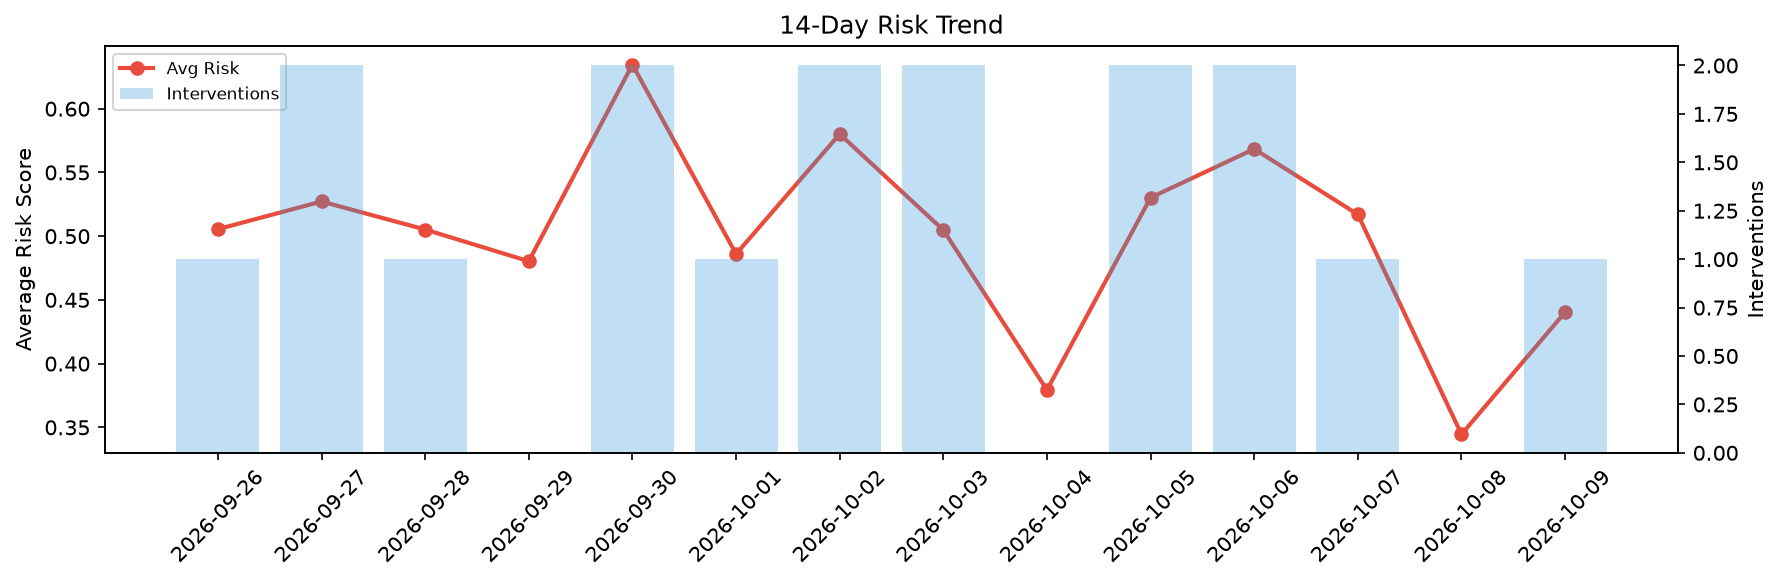
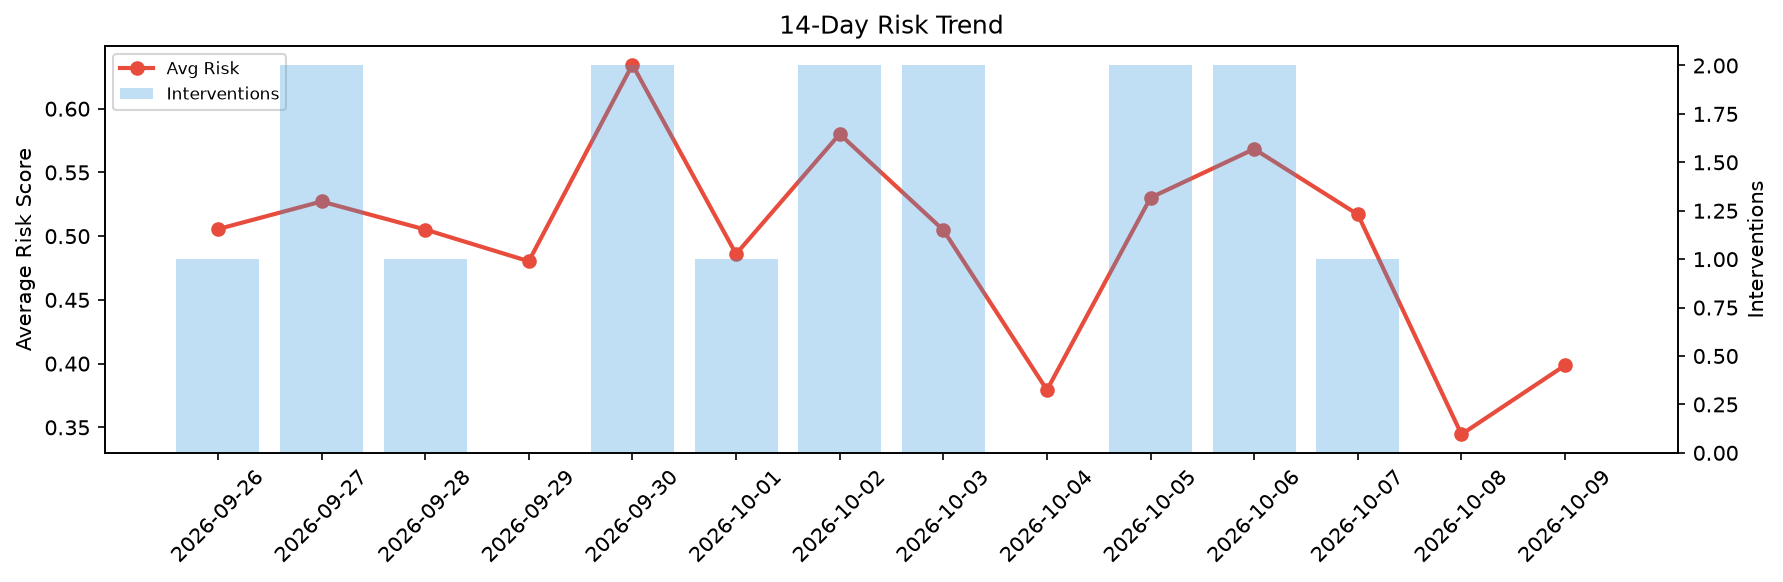
agent-improvement: daily cycle 2026-10-09T08:59

Changed region(s): [[0.802, 0.433, 0.9254, 0.8041]]

diff --git a/logs/2026-10-09.md b/logs/2026-10-09.md
@@ -1,6 +1,6 @@
 # Agent Improvement Report — 2026-10-09
 
-**Cycle ID:** `63b5920d` | **Avg Risk:** 0.4404 | **Interventions:** 1/4
+**Cycle ID:** `62b550a1` | **Avg Risk:** 0.3987 | **Interventions:** 0/4
 
 ![Dashboard](2026-10-09_dashboard.png)
 
@@ -10,18 +10,18 @@
 
 | Domain | Risk Score | Decision | Alerts |
 |--------|-----------|----------|--------|
-| code_review | 0.3655 | monitor | none |
-| incident_response | 0.2892 | monitor | none |
-| data_pipeline | 0.4281 | monitor | none |
-| deployment | 0.6788 | intervene | latency_p99 |
+| code_review | 0.381 | monitor | none |
+| incident_response | 0.3458 | monitor | severity |
+| data_pipeline | 0.3892 | monitor | none |
+| deployment | 0.4788 | monitor | canary_error |
 
 ## Delta vs Yesterday
 
 | Domain | Today | Yesterday | Change |
 |--------|-------|-----------|--------|
-| code_review | 0.3655 | 0.1752 | 📈 108.6% |
-| incident_response | 0.2892 | 0.3717 | 📉 -22.2% |
-| data_pipeline | 0.4281 | 0.2699 | 📈 58.6% |
-| deployment | 0.6788 | 0.5613 | 📈 20.9% |
+| code_review | 0.381 | 0.1752 | 📈 117.5% |
+| incident_response | 0.3458 | 0.3717 | 📉 -7.0% |
+| data_pipeline | 0.3892 | 0.2699 | 📈 44.2% |
+| deployment | 0.4788 | 0.5613 | 📉 -14.7% |
 
 **Refinement:** `{'adjustment': 'tighten_thresholds', 'trend': 'degrading', 'window': 4}`
